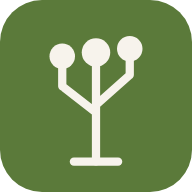
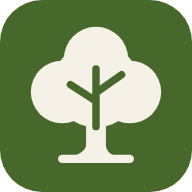
Иконка «Крона»: обычная, maskable, для iPhone и значок уведомлений
Claude-Session: https://claude.ai/code/session_01E4pD5SUN7HDZ2byq1M6UoA

Changed region(s): [[0.1562, 0.125, 0.8438, 0.875]]

diff --git a/web/index.html b/web/index.html
@@ -3,7 +3,8 @@
   <head>
     <meta charset="UTF-8" />
     <meta name="viewport" content="width=device-width, initial-scale=1, viewport-fit=cover" />
-    <meta name="theme-color" content="#5b7a3a" />
+    <meta name="theme-color" content="#46682a" media="(prefers-color-scheme: light)" />
+    <meta name="theme-color" content="#272521" media="(prefers-color-scheme: dark)" />
     <meta name="apple-mobile-web-app-capable" content="yes" />
     <meta name="apple-mobile-web-app-title" content="Древо" />
     <link rel="icon" href="/icon.svg" type="image/svg+xml" />

diff --git a/web/public/push-sw.js b/web/public/push-sw.js
@@ -12,7 +12,8 @@ self.addEventListener('push', (event) => {
     tag: msg.tag,
     renotify: Boolean(msg.tag),
     icon: '/icon-192.png',
-    badge: '/icon-192.png',
+    // Значок в строке состояния Android: белый силуэт на прозрачном.
+    badge: '/badge-96.png',
     lang: 'ru',
     data: { url: msg.url || '/' },
   }));
